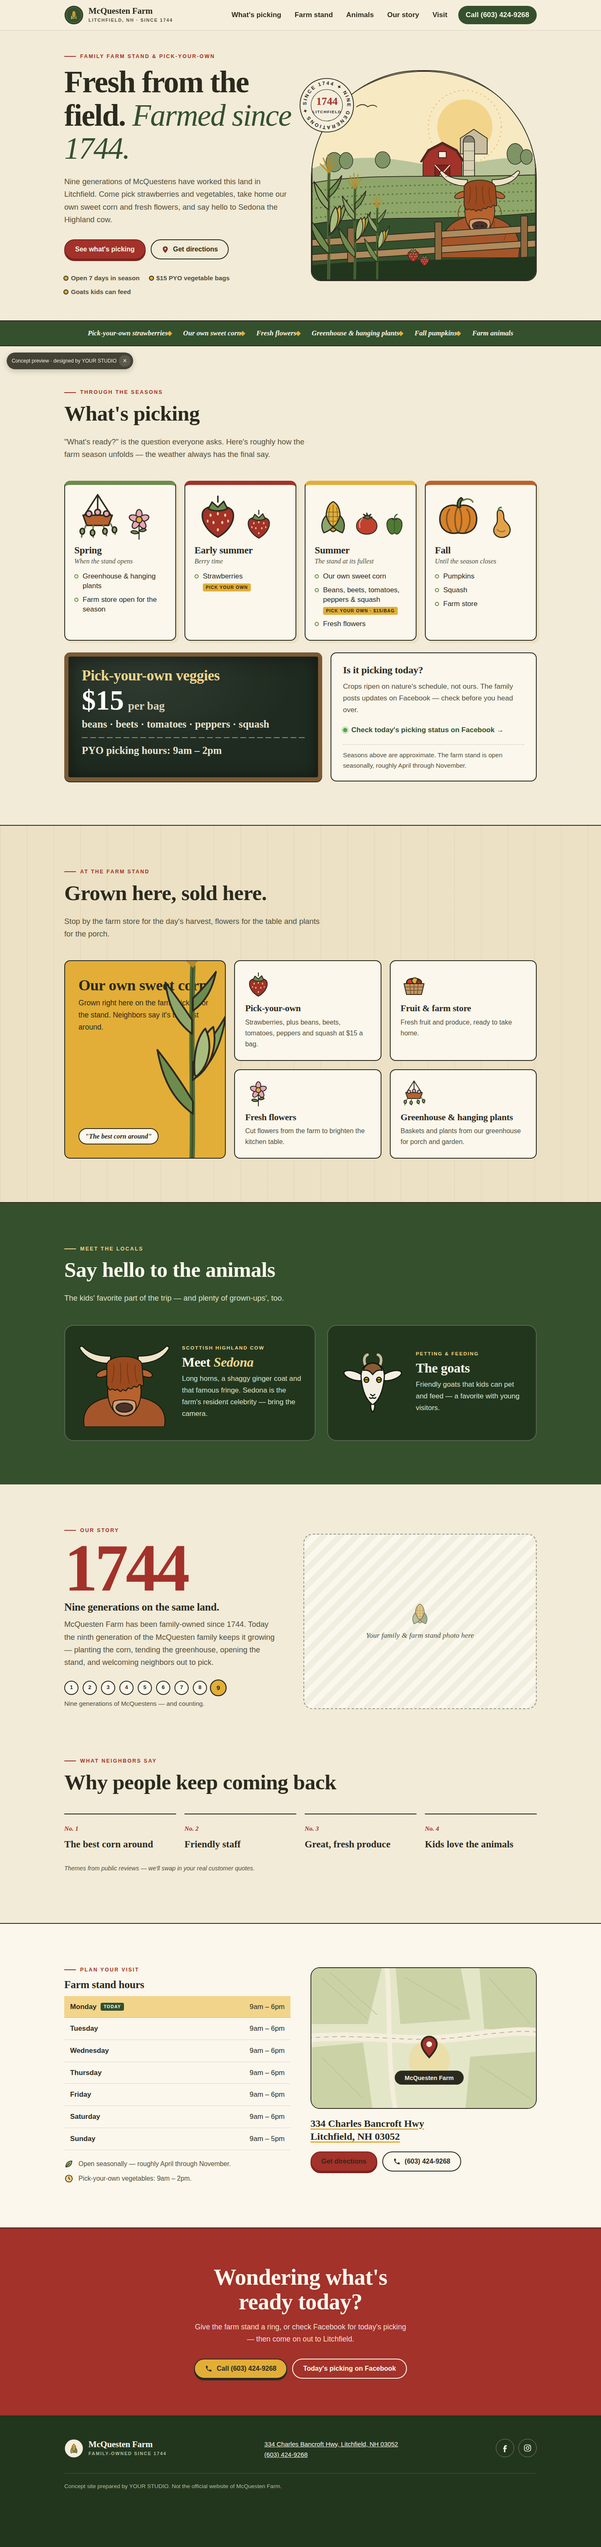
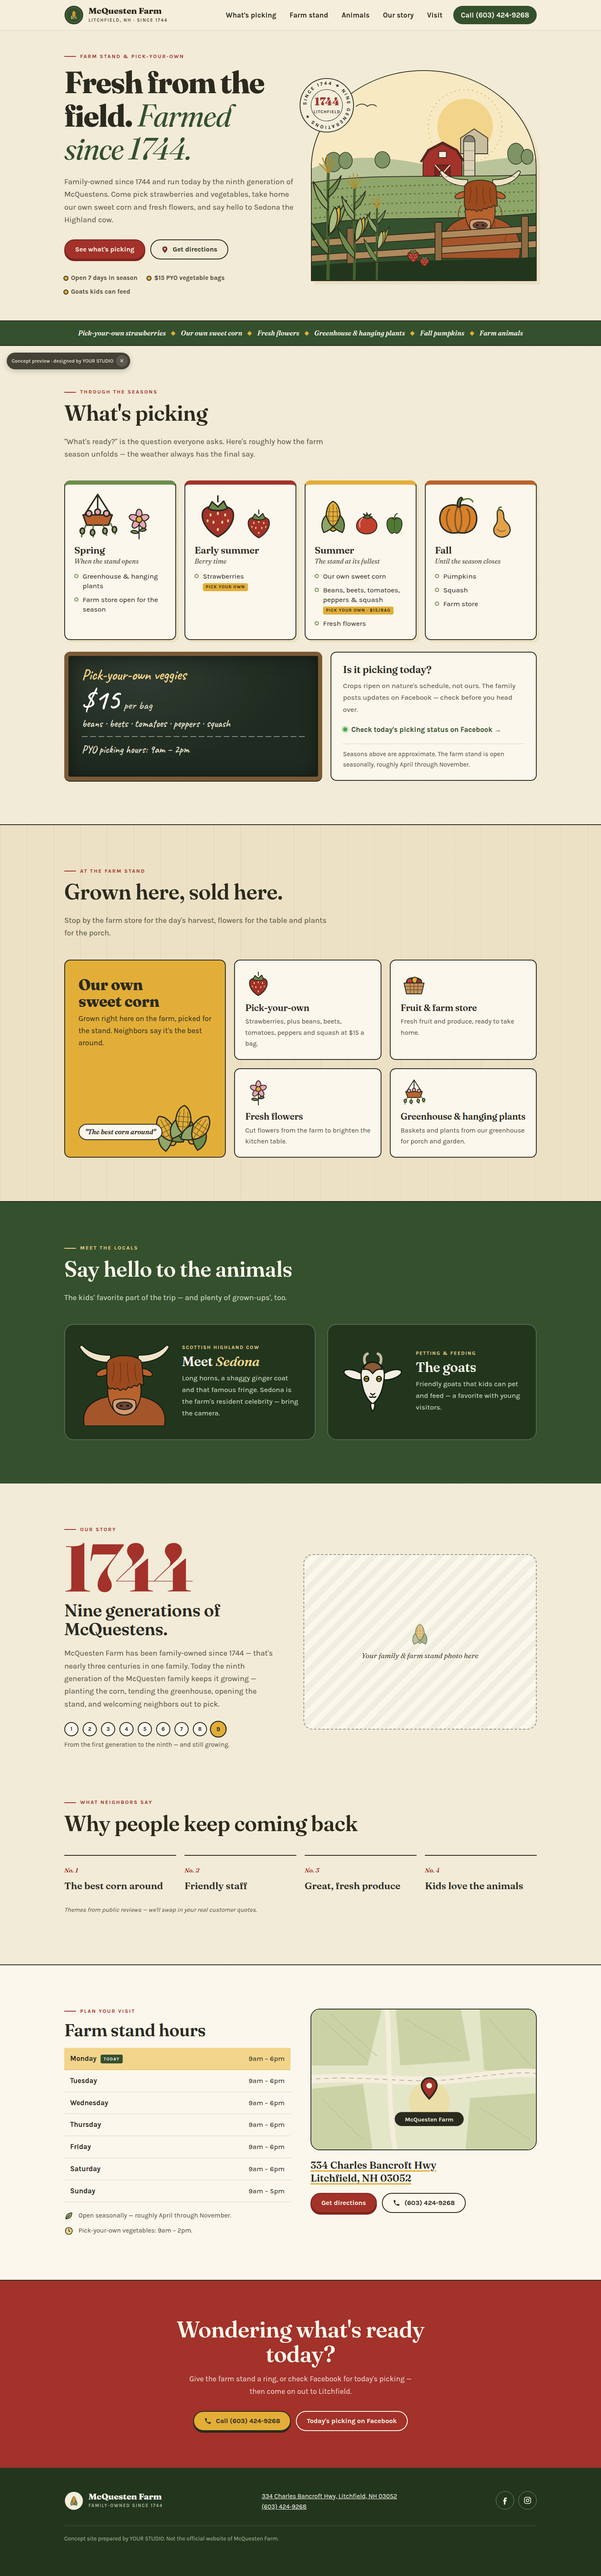
WIP: remaining concept sites in progress
Claude-Session: https://claude.ai/code/session_01TariFxFYYLtPtuPS1u9LRf

diff --git a/nh-web-prospects/sites/helens-tailoring/index.html b/nh-web-prospects/sites/helens-tailoring/index.html
@@ -20,7 +20,7 @@
 }
 *,*::before,*::after{box-sizing:border-box}
 html{scroll-behavior:smooth;-webkit-text-size-adjust:100%}
-body{margin:0;background:var(--ivory);color:var(--charcoal);font:300 1.0625rem/1.75 var(--sans);overflow-x:hidden;letter-spacing:.005em}
+body{margin:0;background:var(--ivory);color:var(--charcoal);font:300 1.0625rem/1.75 var(--sans);overflow-x:hidden;letter-spacing:.005em;font-variant-numeric:lining-nums}
 svg{display:block;max-width:100%}
 a{color:inherit}
 a:focus-visible,button:focus-visible{outline:2px solid var(--gold-text);outline-offset:4px}
@@ -177,8 +177,8 @@ section{scroll-margin-top:96px}
 .fb:hover{border-color:var(--gold)}
 .fb svg{width:18px;height:18px}
 
-.cta{text-align:center;padding:40px 0 128px;background:radial-gradient(ellipse 50% 80% at 50% 100%,var(--blush) 0,rgba(241,221,213,0) 70%)}
-.cta h2{max-width:16ch;margin:0 auto 20px;font-size:clamp(2.4rem,4.6vw,3.8rem);font-weight:400}
+.cta{text-align:center;padding:40px 0 128px;background:radial-gradient(ellipse 90% 70% at 50% 100%,var(--blush) 0,rgba(241,221,213,0) 70%)}
+.cta h2{max-width:20ch;margin:0 auto 20px;font-size:clamp(2.4rem,4.6vw,3.8rem);font-weight:400}
 .cta .big-phone{display:inline-block;font:italic 400 clamp(2.2rem,5vw,3.4rem)/1 var(--serif);color:var(--gold-text);text-decoration:none;margin:12px 0 36px;border-bottom:1px solid var(--gold);padding-bottom:6px}
 .cta .cta-row{justify-content:center}
 
@@ -187,6 +187,7 @@ footer{background:var(--charcoal);color:#CFC4B9;padding:64px 0 56px;font-size:.9
 footer .brand{color:var(--ivory)}
 footer .brand small{color:var(--gold-soft)}
 footer a{color:#EDE4DA}
+.foot>a:last-child{display:inline-flex;align-items:center;min-height:44px}
 .fine{border-top:1px solid rgba(228,210,174,.2);margin-top:40px;padding-top:24px;font-size:.82rem;color:#A99E93;letter-spacing:.02em}
 
 .badge{position:fixed;left:16px;bottom:16px;z-index:60;display:flex;align-items:center;gap:6px;background:rgba(42,38,39,.9);color:#F3ECE4;font:400 .72rem/1 var(--sans);letter-spacing:.04em;padding:6px 6px 6px 14px;border-radius:999px;box-shadow:0 6px 18px rgba(0,0,0,.18)}
@@ -259,6 +260,7 @@ footer a{color:#EDE4DA}
   .rev{border-right:0;border-bottom:1px solid rgba(134,101,47,.35);padding:28px 12px}
   .rev:last-child{border-bottom:0}
   .card{padding:36px 28px}
+  .photo-ph{outline-offset:8px}
   .card .phone{font-size:1.9rem}
   .hours th{font-size:1.2rem}
   .hours th,.hours td{padding:13px 8px}
